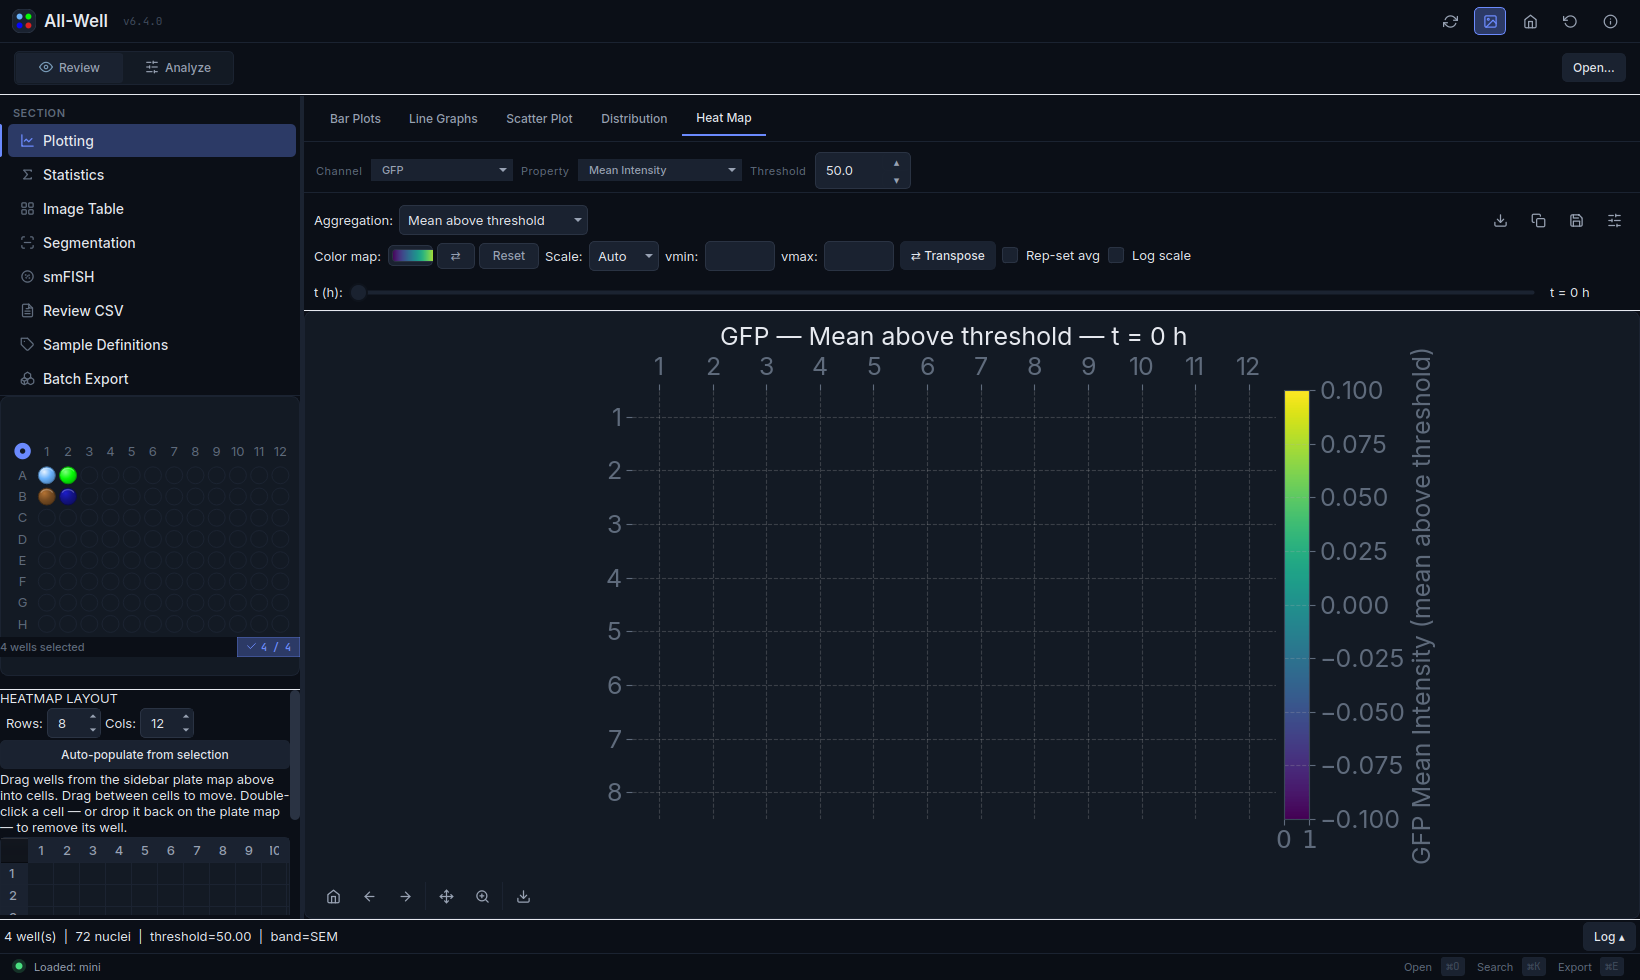
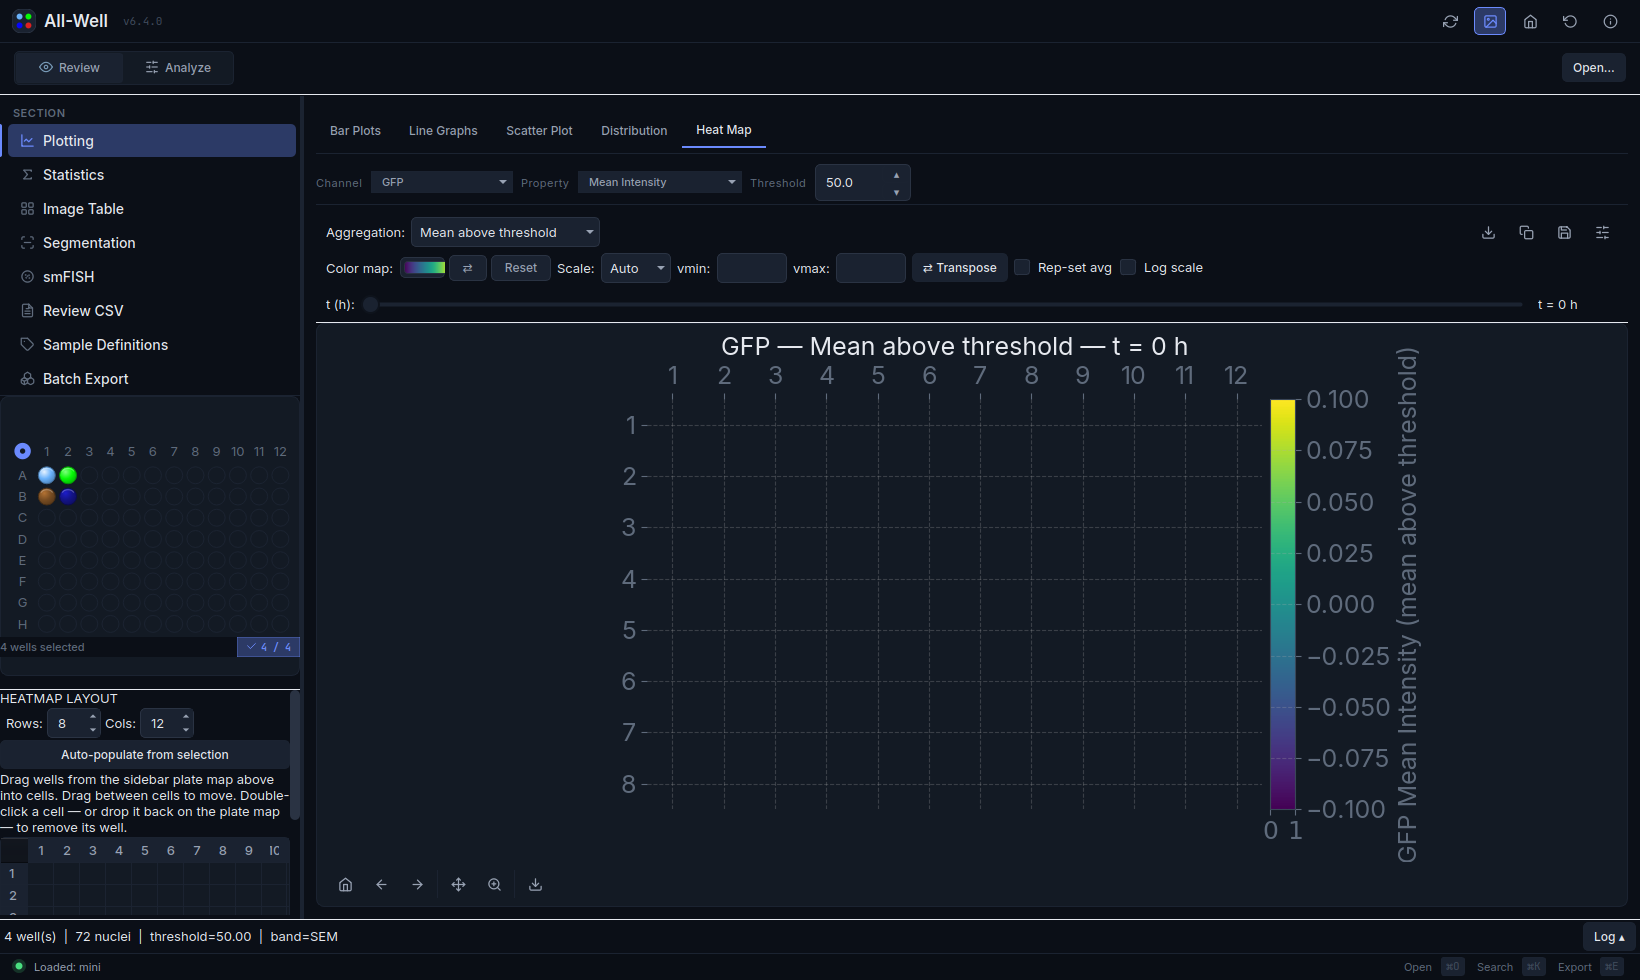
Tabs: extend uniform 12px content inset to the full-bleed tabs
Plotting, Statistics, smFISH, Image Table, Segmentation (Review Image +
Playground), Groups and Well Labels ran edge-to-edge while the form tabs had a
12px frame. Give them the same 12px outer inset and zero the now-redundant
horizontal margins on their control strips so the strip content stays aligned
with the canvas (no double-inset). Every Review tab now shares one 12px frame.

diff --git a/well_viewer/features/grouping/replicate_panel_view.py b/well_viewer/features/grouping/replicate_panel_view.py
@@ -133,7 +133,7 @@ def build_replicate_groups_centre(app, parent: QWidget) -> None:
 
     hdr = QWidget(parent)
     hdr_l = QHBoxLayout(hdr)
-    hdr_l.setContentsMargins(10, 8, 10, 4)
+    hdr_l.setContentsMargins(0, 8, 0, 4)
     layout.addWidget(hdr)
     hdr_l.addStretch(1)
     hdr_l.addWidget(btn_secondary(hdr, "Clear All", app._rep_clear_all))
@@ -142,7 +142,7 @@ def build_replicate_groups_centre(app, parent: QWidget) -> None:
     # Quick Replicates dropdowns
     hdr2r = QWidget(parent)
     hdr2r_l = QHBoxLayout(hdr2r)
-    hdr2r_l.setContentsMargins(10, 4, 10, 4)
+    hdr2r_l.setContentsMargins(0, 4, 0, 4)
     layout.addWidget(hdr2r)
 
     pair_lbl = QLabel("Pair:", hdr2r)
@@ -177,7 +177,7 @@ def build_replicate_groups_centre(app, parent: QWidget) -> None:
     active_row = QWidget(parent)
     active_row.setObjectName("ActiveGroupBanner")
     active_l = QHBoxLayout(active_row)
-    active_l.setContentsMargins(10, 6, 10, 6)
+    active_l.setContentsMargins(0, 6, 0, 6)
     active_l.setSpacing(6)
     active_caption = QLabel("ACTIVE GROUP", active_row)
     active_caption.setStyleSheet(
@@ -216,7 +216,7 @@ def build_replicate_groups_centre(app, parent: QWidget) -> None:
     )
     hint.setObjectName("Muted")
     hint.setWordWrap(True)
-    hint.setContentsMargins(10, 6, 10, 8)
+    hint.setContentsMargins(0, 6, 0, 8)
     layout.addWidget(hint)
 
 
@@ -315,13 +315,13 @@ def build_sample_definitions_centre(app, parent: QWidget) -> None:
     # SavedSelectionsList has full vertical room and the sidebar plate
     # can stay full-aspect.
     groups_tab = _QWidget(sub_tabs)
-    _QVBoxLayout(groups_tab).setContentsMargins(0, 0, 0, 0)
+    _QVBoxLayout(groups_tab).setContentsMargins(12, 12, 12, 12)
     build_replicate_groups_centre(app, groups_tab)
     sub_tabs.addTab(groups_tab, "Groups")
 
     # Sub-tab 1: Well Labels only
     labels_tab = _QWidget(sub_tabs)
-    _QVBoxLayout(labels_tab).setContentsMargins(0, 0, 0, 0)
+    _QVBoxLayout(labels_tab).setContentsMargins(12, 12, 12, 12)
     build_label_grid(app, labels_tab)
     sub_tabs.addTab(labels_tab, "Well Labels")
 

diff --git a/well_viewer/core/centre_view.py b/well_viewer/core/centre_view.py
@@ -149,7 +149,7 @@ def build_centre(app, parent: QWidget) -> None:
     # container and the five sub-tab frames so builder closures (and the
     # drain) can reference them before the nested QTabWidget exists.
     plotting_container = QWidget(app._notebook)
-    QVBoxLayout(plotting_container).setContentsMargins(0, 0, 0, 0)
+    QVBoxLayout(plotting_container).setContentsMargins(12, 12, 12, 12)
 
     _PLOT_SUBTABS = [
         "Bar Plots", "Line Graphs", "Scatter Plot", "Distribution", "Heat Map",
@@ -237,7 +237,7 @@ def build_centre(app, parent: QWidget) -> None:
             f"border-bottom: 1px solid {_C.border_subtle}; }}"
         )
         cbl = QHBoxLayout(ctxbar)
-        cbl.setContentsMargins(_S.md, 6, _S.md, 6)
+        cbl.setContentsMargins(0, 6, 0, 6)
         cbl.setSpacing(_S.sm)
 
         # A standalone QTabBar with the SampleDefinitionsSubTabs object
@@ -264,7 +264,7 @@ def build_centre(app, parent: QWidget) -> None:
             f"border-bottom: 1px solid {_C.border_subtle}; }}"
         )
         arl = QHBoxLayout(action_row)
-        arl.setContentsMargins(_S.md, 4, _S.md, 4)
+        arl.setContentsMargins(0, 4, 0, 4)
         arl.setSpacing(_S.sm)
 
         # Phase 11b (A4): the channel selector is now a single global combo
@@ -647,12 +647,12 @@ def build_centre(app, parent: QWidget) -> None:
         app._segmentation_subtabs = sub_tabs
 
         review_tab = QWidget(sub_tabs)
-        QVBoxLayout(review_tab).setContentsMargins(0, 0, 0, 0)
+        QVBoxLayout(review_tab).setContentsMargins(12, 12, 12, 12)
         build_review_image_panel(app, review_tab)
         sub_tabs.addTab(review_tab, "Review Image")
 
         playground_tab = QWidget(sub_tabs)
-        QHBoxLayout(playground_tab).setContentsMargins(0, 0, 0, 0)
+        QHBoxLayout(playground_tab).setContentsMargins(12, 12, 12, 12)
         sub_tabs.addTab(playground_tab, "Playground")
         app._playground_subtab_frame = playground_tab
         app._playground_subtab_built = False

diff --git a/well_viewer/features/stats/view.py b/well_viewer/features/stats/view.py
@@ -127,13 +127,13 @@ def build_stats_results_panel(app, parent: QWidget) -> None:
     if layout is None:
         layout = QVBoxLayout(parent)
         parent.setLayout(layout)
-    layout.setContentsMargins(0, 0, 0, 0)
+    layout.setContentsMargins(12, 12, 12, 12)
     layout.setSpacing(0)
 
     app._stats_ctrl = QWidget(parent)
     app._stats_ctrl.setObjectName("TabCtrl")  # data-gated until a dataset loads
     cl = QGridLayout(app._stats_ctrl)
-    cl.setContentsMargins(12, 6, 12, 6)
+    cl.setContentsMargins(0, 6, 0, 6)
 
     app._stats_test_label = QLabel("Test:", app._stats_ctrl)
     cl.addWidget(app._stats_test_label, 0, 0, Qt.AlignLeft)
@@ -209,7 +209,7 @@ def build_stats_results_panel(app, parent: QWidget) -> None:
     run_row = QWidget(parent)
     run_row.setObjectName("TabCtrl")  # data-gated with the stats form above
     rrl = QHBoxLayout(run_row)
-    rrl.setContentsMargins(12, 0, 12, 6)
+    rrl.setContentsMargins(0, 0, 0, 6)
     run_btn = btn_primary(run_row, "Run test", app._stats_run)
     rrl.addWidget(run_btn)
     rrl.addStretch(1)
@@ -240,7 +240,7 @@ def build_stats_results_panel(app, parent: QWidget) -> None:
 
     app._stats_res_frame = QWidget(parent)
     rl = QVBoxLayout(app._stats_res_frame)
-    rl.setContentsMargins(12, 6, 12, 6)
+    rl.setContentsMargins(0, 6, 0, 6)
     app._stats_result_text = QTextEdit(app._stats_res_frame)
     app._stats_result_text.setReadOnly(True)
     app._stats_result_text.setLineWrapMode(QTextEdit.WidgetWidth)

diff --git a/well_viewer/features/smfish/tab_view.py b/well_viewer/features/smfish/tab_view.py
@@ -117,13 +117,13 @@ def build_smfish_tab(ctx, parent: QWidget) -> None:
     if root is None:
         root = QVBoxLayout(parent)
         parent.setLayout(root)
-    root.setContentsMargins(0, 0, 0, 0)
+    root.setContentsMargins(12, 12, 12, 12)
 
     # Row 1: channel/fov/tp/threshold/LUT
     ctrl = QWidget(parent)
     ctrl.setObjectName("TabCtrl")
     cl = QHBoxLayout(ctrl)
-    cl.setContentsMargins(10, 6, 10, 6)
+    cl.setContentsMargins(0, 6, 0, 6)
 
     cl.addWidget(QLabel("Channel:", ctrl))
     ctx.app._smfish_channel_cb = QComboBox(ctrl)
@@ -170,7 +170,7 @@ def build_smfish_tab(ctx, parent: QWidget) -> None:
     btn_row = QWidget(parent)
     btn_row.setObjectName("TabCtrl")
     bl = QHBoxLayout(btn_row)
-    bl.setContentsMargins(10, 2, 10, 2)
+    bl.setContentsMargins(0, 2, 0, 2)
 
     apply_btn = QPushButton("Apply Global Threshold", btn_row)
     apply_btn.setProperty("variant", "secondary")

diff --git a/well_viewer/features/grouping/label_grid_view.py b/well_viewer/features/grouping/label_grid_view.py
@@ -378,7 +378,7 @@ def build_label_grid(app, parent: QWidget) -> None:
     # ── top help + affix toolbar ─────────────────────────────────────
     head = QWidget(parent)
     hl = QHBoxLayout(head)
-    hl.setContentsMargins(10, 8, 10, 6)
+    hl.setContentsMargins(0, 8, 0, 6)
     hl.setSpacing(theme.Spacing.sm)
     help_lbl = QLabel(
         "Custom names used in legends + axis labels. Type into a cell to "

diff --git a/well_viewer/features/image_table/tab_view.py b/well_viewer/features/image_table/tab_view.py
@@ -96,7 +96,7 @@ def build_image_table_tab(ctx, parent: QWidget) -> None:
     scroll.setFrameShape(QFrame.NoFrame)
     inner = QWidget()
     il = QVBoxLayout(inner)
-    il.setContentsMargins(8, 8, 8, 8)
+    il.setContentsMargins(12, 12, 12, 12)
     il.setSpacing(6)
     scroll.setWidget(inner)
     layout.addWidget(scroll, 1)
